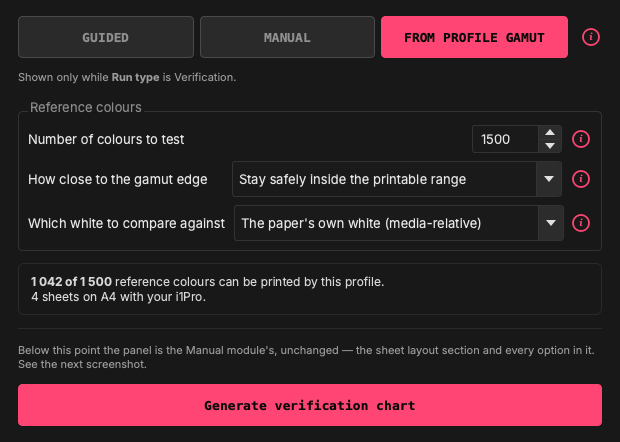
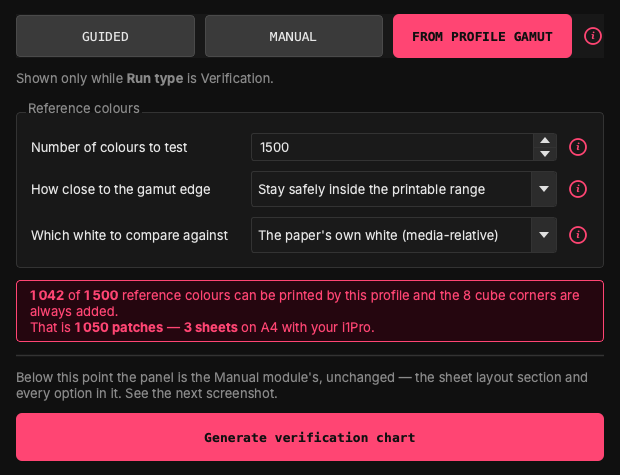
#133: the panel mockup's sheet count came from the wrong table row
The mockup said "4 sheets on A4 with your i1Pro" for 1042 colours. That came
from a capacity of 682 patches per sheet, which patch_db holds for
("i1", False, "11x17") -- not for A4. The database has not changed since the
mockup was drawn, so this was wrong when written, not drifted: the figure was
read against the wrong key. At the capacity ChromIQ actually offers for i1Pro
on A4 -- 483 per sheet, at the 10 mm margin INSTRUMENT_DEFAULT_MARGIN gives
the i1Pro rather than printtarg's 6 mm -- it is 3 sheets.

The count line now also names the eight cube corners. Section 9a made them
unconditional after the mockup was drawn, and they are patches on paper, so
they belong in the total someone reads before committing sheets: 1042 in gamut
+ 8 = 1050.

The original was drawn by a throwaway script, so correcting one number meant
reproducing the whole image. The generator is committed this time and derives
the capacity from patch_db instead of carrying a literal, so the next
correction is a re-run.

diff --git a/scripts/mockup_acc133_panel.py b/scripts/mockup_acc133_panel.py
@@ -1,0 +1,223 @@
+#!/usr/bin/env python3
+"""Redraw ``docs/mockups/acc133/acc_1_panel.png`` — the #133 Create Chart panel.
+
+The first version of this mockup was drawn by a throwaway script, so when its
+sheet count turned out to be wrong there was nothing to correct: the image had
+to be reproduced from scratch. This file exists so that never happens again.
+
+Two things it fixes, both verified against the code rather than assumed:
+
+* **The sheet count.** The original said "4 sheets on A4 with your i1Pro" for
+  1 042 colours. That came from a capacity of 682 patches per sheet, which
+  ``data/patch_db.py`` holds for ``("i1", False, "11x17")`` — not for A4. At
+  the capacity ChromIQ actually offers for i1Pro on A4 (483 patches per sheet,
+  at the 10 mm default margin ``INSTRUMENT_DEFAULT_MARGIN`` gives the i1Pro),
+  1 050 patches is **3 sheets**. The number is computed here, not typed, so it
+  cannot drift from the database again.
+* **The eight cube corners.** §9a became a requirement after the original was
+  drawn: they are added to every chart unconditionally, outside the gamut
+  filter. They are patches on paper, so they belong in the count line the user
+  reads before committing sheets.
+
+Run with the app's real stylesheet so the result is the real widget set:
+
+    QT_QPA_PLATFORM=offscreen .venv/bin/python scripts/mockup_acc133_panel.py
+
+Writes the PNG and prints the numbers it used.
+"""
+from __future__ import annotations
+
+import math
+import os
+import sys
+from pathlib import Path
+
+ROOT = Path(__file__).resolve().parent.parent
+sys.path.insert(0, str(ROOT))
+
+os.environ.setdefault("QT_QPA_PLATFORM", "offscreen")
+
+from PyQt6.QtCore import Qt                                        # noqa: E402
+from PyQt6.QtWidgets import (                                      # noqa: E402
+    QApplication, QComboBox, QFrame, QGroupBox, QHBoxLayout, QLabel,
+    QPushButton, QSpinBox, QVBoxLayout, QWidget,
+)
+
+from ui import styles                                              # noqa: E402
+from ui.tooltip_button import TooltipButton                        # noqa: E402
+
+OUT = ROOT / "docs" / "mockups" / "acc133" / "acc_1_panel.png"
+
+#: The panel's worked example. The master-set size and the in-gamut count are
+#: illustrative; the capacity and the sheet count are derived below.
+SET_SIZE = 1500
+IN_GAMUT = 1042
+INSTRUMENT, PAPER = "i1", "A4"
+
+
+def sheet_count() -> "tuple[int, int, int]":
+    """``(patches, per_sheet, sheets)`` for the example, from the real database.
+
+    The corners are added to the printed total because §9a puts them in every
+    chart this module builds, outside the gamut filter.
+    """
+    from data.patch_db import INSTRUMENT_DEFAULT_MARGIN, query_patches
+    from workflow.measurement_report import CUBE_CORNERS
+
+    margin = INSTRUMENT_DEFAULT_MARGIN.get(INSTRUMENT, 6)
+    per_sheet = query_patches(INSTRUMENT, PAPER, False, True, margin, 1.0,
+                              False, False)
+    if not per_sheet:
+        raise SystemExit(
+            f"patch_db has no capacity for {INSTRUMENT}/{PAPER} — the mockup "
+            "must not invent one")
+    patches = IN_GAMUT + len(CUBE_CORNERS)
+    return patches, int(per_sheet), math.ceil(patches / per_sheet)
+
+
+def _row(parent: QWidget, label: str, control: QWidget, title: str,
+         body: str) -> QWidget:
+    """One option row: label, control, ⓘ in the tab's accent colour."""
+    row = QWidget(parent)
+    lay = QHBoxLayout(row)
+    lay.setContentsMargins(0, 0, 0, 0)
+    lay.setSpacing(10)
+    text = QLabel(label, row)
+    text.setMinimumWidth(210)
+    text.setStyleSheet("background:transparent;")
+    lay.addWidget(text)
+    lay.addWidget(control, 1)
+    lay.addWidget(TooltipButton(title, body, row))
+    return row
+
+
+def build() -> QWidget:
+    patches, per_sheet, sheets = sheet_count()
+
+    panel = QWidget()
+    panel.setObjectName("mockupPanel")
+    panel.setFixedWidth(620)
+    outer = QVBoxLayout(panel)
+    outer.setContentsMargins(16, 14, 16, 14)
+    outer.setSpacing(12)
+
+    # --- the module buttons, with this one selected -----------------------
+    modes = QWidget(panel)
+    mrow = QHBoxLayout(modes)
+    mrow.setContentsMargins(0, 0, 0, 0)
+    mrow.setSpacing(10)
+    for name, on in (("GUIDED", False), ("MANUAL", False),
+                     ("FROM PROFILE GAMUT", True)):
+        b = QPushButton(name, modes)
+        b.setCheckable(True)
+        b.setChecked(on)
+        b.setMinimumHeight(38)
+        if on:
+            b.setStyleSheet(
+                f"QPushButton{{background:{styles.SPEC_MAGENTA};color:#101010;"
+                "font-weight:700;border:none;border-radius:6px;padding:8px 14px;}")
+        mrow.addWidget(b, 1)
+    mrow.addWidget(TooltipButton(
+        "Building a chart from this profile's gamut",
+        "This module builds a verification chart out of colours chosen by the "
+        "profile you have already made, instead of colours chosen by a patch "
+        "generator.", modes))
+    outer.addWidget(modes)
+
+    caption = QLabel("Shown only while <b>Run type</b> is Verification.", panel)
+    caption.setStyleSheet(f"color:{styles.TEXT_DIM};background:transparent;")
+    outer.addWidget(caption)
+
+    # --- the three options ------------------------------------------------
+    group = QGroupBox("Reference colours", panel)
+    gl = QVBoxLayout(group)
+    gl.setContentsMargins(14, 16, 14, 14)
+    gl.setSpacing(10)
+
+    count = QSpinBox(group)
+    count.setRange(50, 5000)
+    count.setValue(SET_SIZE)
+    # No group separator: it is locale-dependent, and on a German machine the
+    # box rendered "1.500", which reads as a decimal to an English audience.
+    count.setGroupSeparatorShown(False)
+    gl.addWidget(_row(group, "Number of colours to test", count,
+                      "How many colours to test",
+                      "Sets how many reference colours ChromIQ asks the "
+                      "profile to reproduce."))
+
+    margin_box = QComboBox(group)
+    margin_box.addItems(["Stay safely inside the printable range",
+                         "Use the full printable range"])
+    gl.addWidget(_row(group, "How close to the gamut edge", margin_box,
+                      "How close to the gamut edge to go",
+                      "Decides whether the test colours may sit right at the "
+                      "limit of what your printer and paper can do."))
+
+    white = QComboBox(group)
+    white.addItems(["The paper's own white (media-relative)",
+                    "A fixed absolute white (absolute colorimetric)"])
+    gl.addWidget(_row(group, "Which white to compare against", white,
+                      "Which white the comparison is measured from",
+                      "Paper is never perfectly white, and this setting "
+                      "decides whether that counts as an error."))
+    outer.addWidget(group)
+
+    # --- what it costs, before any paper is used --------------------------
+    info = QLabel(panel)
+    info.setObjectName("info")
+    info.setWordWrap(True)
+    info.setText(
+        f"<b>{IN_GAMUT:,}</b> of <b>{SET_SIZE:,}</b> reference colours can be "
+        "printed by this profile, and the 8 cube corners are always added."
+        f"<br>That is <b>{patches:,} patches</b> — "
+        f"<b>{sheets} sheets</b> on {PAPER} with your i1Pro."
+        .replace(",", " "))
+    outer.addWidget(info)
+
+    rule = QFrame(panel)
+    rule.setFrameShape(QFrame.Shape.HLine)
+    rule.setStyleSheet(f"color:{styles.BORDER};")
+    outer.addWidget(rule)
+
+    below = QLabel(
+        "Below this point the panel is the Manual module's, unchanged — the "
+        "sheet layout section and every option in it. See the next screenshot.",
+        panel)
+    below.setWordWrap(True)
+    below.setStyleSheet(f"color:{styles.TEXT_DIM};background:transparent;")
+    outer.addWidget(below)
+
+    gen = QPushButton("Generate verification chart", panel)
+    gen.setMinimumHeight(40)
+    gen.setStyleSheet(
+        f"QPushButton{{background:{styles.SPEC_MAGENTA};color:#101010;"
+        "font-weight:700;border:none;border-radius:6px;padding:10px;}")
+    outer.addWidget(gen)
+    return panel
+
+
+def main() -> int:
+    app = QApplication(sys.argv)
+    app.setStyle(styles.WinButtonLayoutStyle("Fusion"))
+    app.setPalette(styles.make_dark_palette())
+    app.setStyleSheet(styles.APP_STYLESHEET)
+    TooltipButton.ACCENT = styles.SPEC_MAGENTA
+
+    panel = build()
+    panel.setStyleSheet(panel.styleSheet() +
+                        f"\n#mockupPanel{{background:{styles.BG_DARK};}}")
+    panel.adjustSize()
+    panel.grab().save(str(OUT))
+
+    patches, per_sheet, sheets = sheet_count()
+    print(f"i1Pro / {PAPER}: {per_sheet} patches per sheet (patch_db, "
+          f"10 mm default margin)")
+    print(f"{IN_GAMUT} in gamut + 8 cube corners = {patches} patches "
+          f"-> {sheets} sheets")
+    print(f"wrote {OUT.relative_to(ROOT)}  {panel.size().width()}x"
+          f"{panel.size().height()}")
+    return 0
+
+
+if __name__ == "__main__":
+    raise SystemExit(main())
